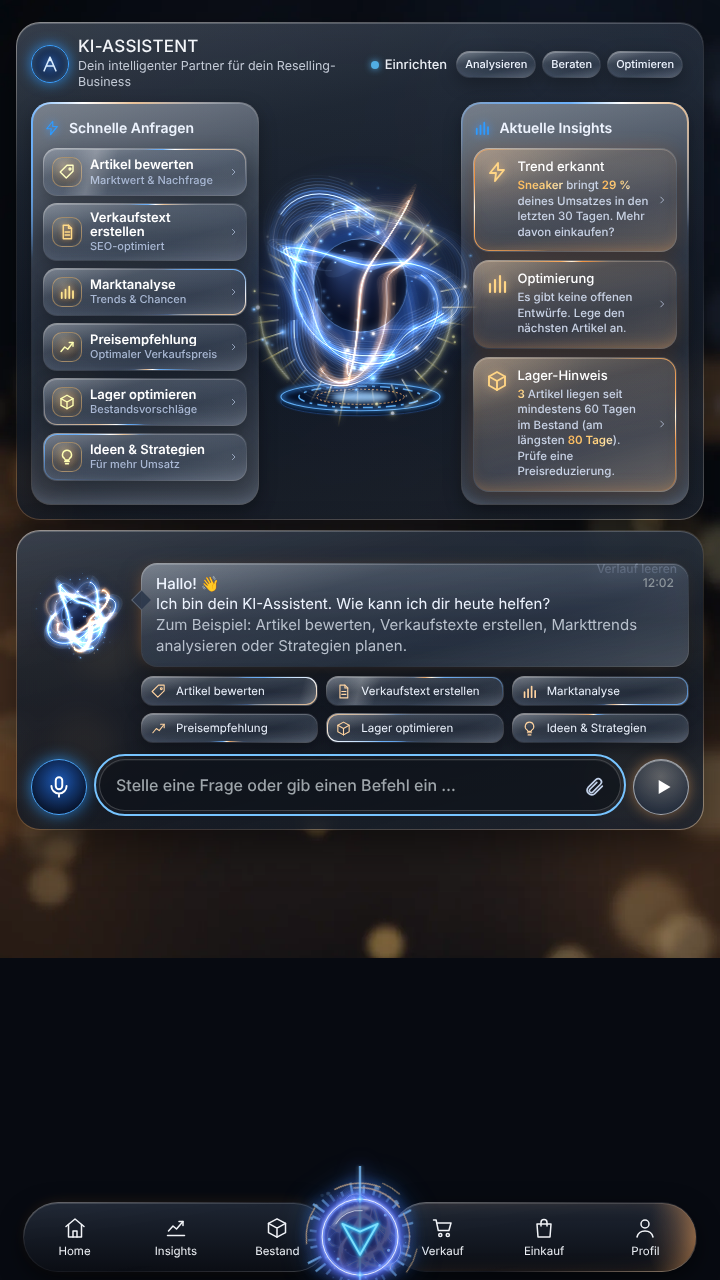
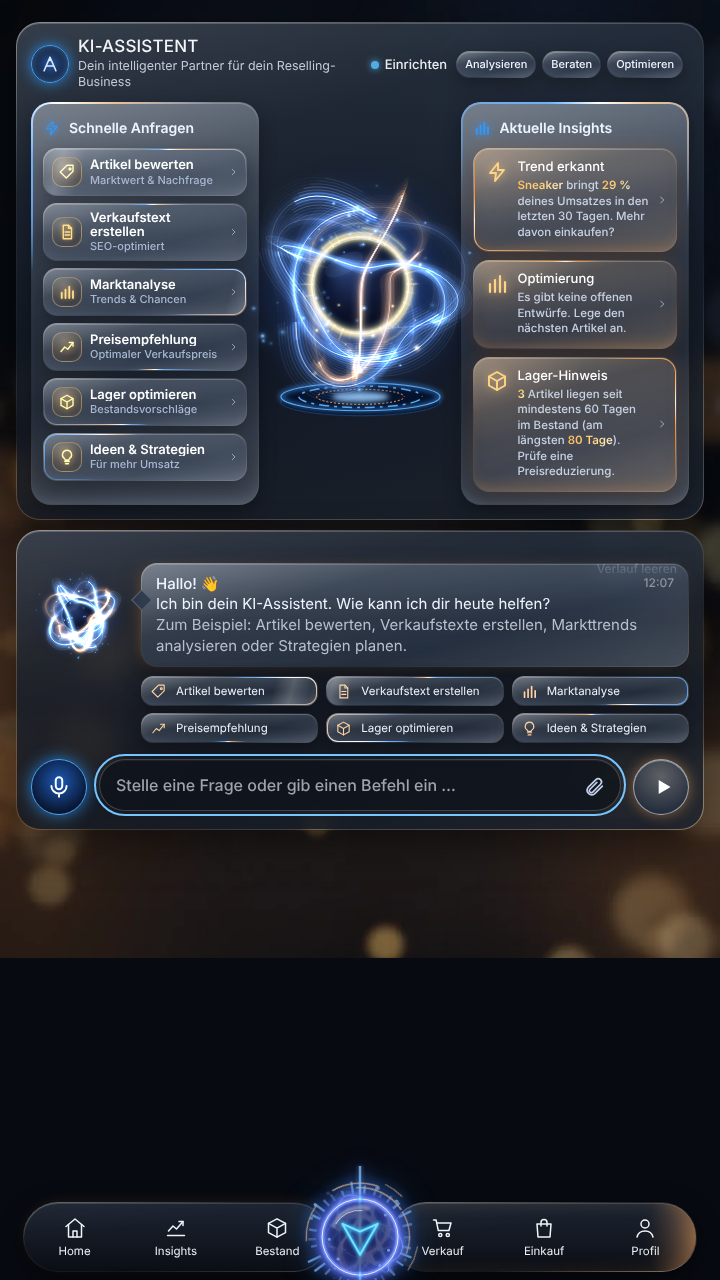
KI-Ball: goldener Schein nur direkt um den Kern
- Gold-Strahlen kurz und eng am Kern statt weit gestreut
- Pulsierender goldener Lichtring um den Kern

Claude-Session: https://claude.ai/code/session_0194bcZ5PbUBuV3hzmwdGD96

diff --git a/public/fx.js b/public/fx.js
@@ -433,6 +433,7 @@
     d.appendChild(rg);
     var bl = svgEl('filter', { id: id + 'b', x: '-50%', y: '-50%', width: '200%', height: '200%' }); bl.appendChild(svgEl('feGaussianBlur', { stdDeviation: '.6' })); d.appendChild(bl);
     var org = C + 'px ' + Y + 'px';
+    if (o.rim) { A('circle', { cx: C, cy: Y, r: R + .3, fill: 'none', stroke: '#ffb060', 'stroke-width': '2.2', opacity: '.55', filter: 'url(#' + id + 'b)', class: 'cc-gold-rim' }); A('circle', { cx: C, cy: Y, r: R + .2, fill: 'none', stroke: '#ffe2b0', 'stroke-width': '.45', opacity: '.8', class: 'cc-gold-rim' }); }
     var rays = A('g', { class: 'cc-gold-rays', style: 'transform-origin:' + org });
     var seed = o.seed || 13; function rnd() { seed = (seed * 9301 + 49297) % 233280; return seed / 233280; }
     for (var i = 0; i < N; i++) {
@@ -465,8 +466,8 @@
     goldField(wrap, { C: 43, Y: 50, R: 33.7 });
   }
   function setupGoldElsewhere() {
-    var bot = doc.querySelector('.v15-bot-frame'); if (bot && !bot.querySelector('.cc-globe-gold')) goldField(bot, { R: 33, rays: 36, len0: 6, len1: 13, w0: .35, w1: .6, sparks: 22, cls: 'cc-gold-soft', seed: 21 });
-    var chat = doc.getElementById('ccChatBot'); if (chat && !chat.querySelector('.cc-globe-gold')) goldField(chat, { Y: 44, R: 30, rays: 36, len0: 6, len1: 13, w0: .35, w1: .6, sparks: 22, cls: 'cc-gold-soft', seed: 27 });
+    var bot = doc.querySelector('.v15-bot-frame'); if (bot && !bot.querySelector('.cc-globe-gold')) goldField(bot, { R: 18.5, rays: 32, len0: 2.5, len1: 6, w0: .35, w1: .55, sparks: 14, sparkR: .8, arcW: .7, rim: true, cls: 'cc-gold-soft', seed: 21 });
+    var chat = doc.getElementById('ccChatBot'); if (chat && !chat.querySelector('.cc-globe-gold')) goldField(chat, { R: 18.5, rays: 32, len0: 2.5, len1: 6, w0: .35, w1: .55, sparks: 14, sparkR: .8, arcW: .7, rim: true, cls: 'cc-gold-soft', seed: 27 });
     var nav = doc.querySelector('#bottomnav .orb'); if (nav && !nav.querySelector('.cc-globe-gold')) goldField(nav, { R: 34, rays: 30, len0: 4, len1: 9, w0: .5, w1: .8, sparks: 14, sparkR: 1.6, arcW: 1.6, cls: 'cc-gold-nav', seed: 31 });
   }
 

diff --git a/public/theme.css b/public/theme.css
@@ -909,3 +909,11 @@ body:has(#home:not(.hidden))::before { background:none !important; display:none 
 #bottomnav.lux-bottomnav button:not(.orb) { height:62px; min-height:62px !important; }
 .v15-bot-frame .cc-gold-soft { width:120% !important; height:auto !important; aspect-ratio:1; z-index:2 !important; opacity:.75 !important; }
 #ccChatBot .cc-gold-soft { z-index:2 !important; opacity:.75 !important; }
+/* KI-Ball: Gold-Schein nur direkt um den Kern (gleiche Box wie die Plasma-Zeichenfläche) */
+.v15-bot-frame .cc-gold-soft { left:50% !important; top:50% !important; width:236px !important; height:236px !important; aspect-ratio:auto; transform:translate(-50%,-50%) !important; opacity:.85 !important; }
+@media(max-width:999px) { .v15-bot-frame .cc-gold-soft { width:200px !important; height:200px !important; } }
+#ccChatBot .cc-gold-soft { left:50% !important; top:0 !important; width:130% !important; height:auto !important; aspect-ratio:1; margin-top:-15%; transform:translateX(-50%) !important; opacity:.85 !important; }
+.v15-bot-frame .cc-gold-soft, #ccChatBot .cc-gold-soft { opacity:1 !important; }
+.cc-gold-rim { animation:cc-rimglow 4.2s ease-in-out infinite; }
+@keyframes cc-rimglow { 0%,100% { opacity:.45; } 55% { opacity:1; } }
+@media (prefers-reduced-motion: reduce) { .cc-gold-rim { animation:none; } }

diff --git a/public/sw.js b/public/sw.js
@@ -1,4 +1,4 @@
-const CACHE='rv-studio-v19-blueglass-15';
+const CACHE='rv-studio-v19-blueglass-16';
 const FILES=['/','/index.html','/app.css','/dashboard.css','/fx.css','/ref.css','/theme.css','/app.js','/dashboard.js','/fx.js',
   '/vendor/jszip.min.js','/fonts/command-sans-regular.otf','/fonts/command-sans-bold.otf',
   '/rv-logo.jpg','/rv-ai-mascot.png','/rv-robot-premium.png','/rv-white.png',
